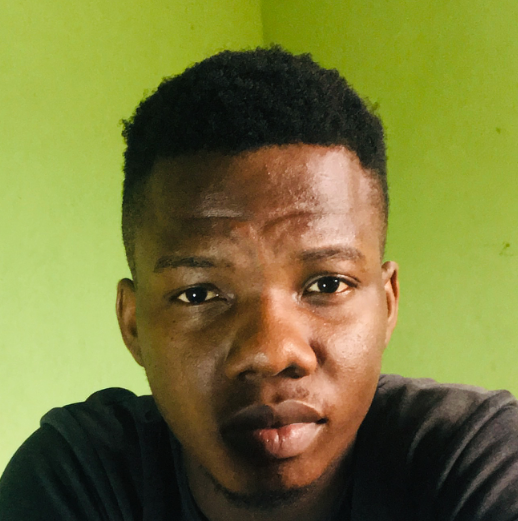
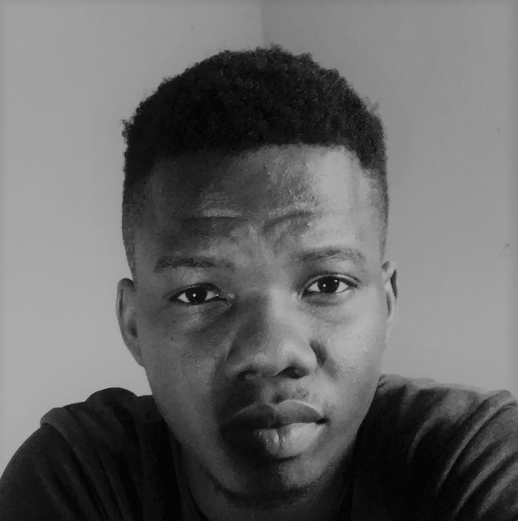
change bg to black and white

diff --git a/pages/about-salami-kolawole/index.vue b/pages/about-salami-kolawole/index.vue
@@ -1,0 +1,100 @@
+<template>
+    <div>
+        <div>
+<!--            <BreadCrumb/>-->
+            <div class="content-body">
+                <div v-html="rawHtml"></div>
+            </div>
+        </div>
+    </div>
+</template>
+
+<script setup>
+    import {ref} from 'vue';
+
+    const rawHtml = ref("<p>&nbsp;</p>\n" +
+        "\n" +
+        "<p>&nbsp;</p>\n" +
+        "\n" +
+        "<p>&nbsp;</p>\n" +
+        "\n" +
+        "<ul>\n" +
+        "\t<li><strong>WHO THE HELL ARE YOU?</strong><br />\n" +
+        "\t<br />\n" +
+        "\tWell since you asked. My name is Salami Kolawole, I am from Nigeria&nbsp;and I earn my daily bread through software development. Throughout my career, I have had the opportunity to work on various projects, ranging from open-source initiatives to enterprise solutions. As a leader, I have successfully guided teams of 5-10 members through one, two, three, four, five&nbsp;product launches, spanning various domains.<br />\n" +
+        "\t&nbsp;</li>\n" +
+        "\t<li><strong>HOW DID YOU BECOME A SOFTWARE ENGINEER?</strong><br />\n" +
+        "\t<br />\n" +
+        "\tIt all started in 2016, I was mandated to take a course in programming during my graduate program. While in the lecture room on a sunny Friday, the lecturer said 95% percent of you in this room will never end up as a programmer, just cram and pass the goddamn course. That statement really skyrocketed my interest in programming, I picked up my laptop days after, head to youtube, and search for FORTRAN FOR BEGINNERS. I never looked back afterward. A year later I picked up web development, so here I am.<br />\n" +
+        "\t&nbsp;</li>\n" +
+        "\t<li><strong>DO YOU HAVE A JOB AND WHAT DO YOU DO AT YOUR JOB?</strong><br />\n" +
+        "\tSure, I do have an employer, I work at VALE. You can check us out @ <a href=\"https://vale.ng\">https://vale.ng</a><br />\n" +
+        "\tI do wear many hats and they all fit. Most of the time you will find hacking away the backend side of things, I do dabble in front-end engineering too, but I do respect my boundaries. Catch me goofing around with DevOps-related tasks at odd hours too.<br />\n" +
+        "\tArchitectural design? Yeah, I am always discussing trade-offs.</li>\n" +
+        "</ul>\n" +
+        "\n" +
+        "<p>&nbsp;</p>\n" +
+        "\n" +
+        "<ul>\n" +
+        "\t<li><strong>WHAT DO YOU LOVE ABOUT BEING A SOFTWARE DEVELOPER?</strong><br />\n" +
+        "\t<br />\n" +
+        "\tNothing actually, it&#39;s just a profession where you are a beginner at something new every 3 months.</li>\n" +
+        "</ul>\n" +
+        "\n" +
+        "<p>&nbsp;</p>\n" +
+        "\n" +
+        "<ul>\n" +
+        "\t<li><strong>WHAT DO YOU REGARD AS&nbsp;AN IDEAL SOFTWARE?</strong><br />\n" +
+        "\t<br />\n" +
+        "\tA software that does not exist is my ideal software.&nbsp; Hello World application comes a distant second.<br />\n" +
+        "\t<br />\n" +
+        "\tErmm sorry, I have to&nbsp;go now, there&#39;s a crash in production. I need to start taking testing seriously.&nbsp;</li>\n" +
+        "</ul>");
+
+</script>
+
+<style scoped>
+
+    div.content-divider {
+        padding-bottom: 2rem;
+    }
+
+    div.content-tags {
+        display: flex;
+        justify-content: flex-start;
+        flex-wrap: wrap;
+        padding-bottom: 2rem;
+    }
+
+    div.content-tags h6 {
+        flex-basis: 100%;
+        font-weight: 600;
+    }
+
+    div.content-tags span {
+        margin-right: 10px;
+        font-size: 14px;
+    }
+
+
+    @media (min-width: 1025px) {
+
+        div.content-tags {
+            display: flex;
+            justify-content: flex-end;
+            flex-wrap: wrap;
+        }
+
+        div.content-tags h6 {
+            flex-basis: 100%;
+            text-align: end;
+        }
+
+        div.content-tags span {
+            margin-right: 0;
+            margin-left: 10px;
+        }
+
+    }
+
+</style>

diff --git a/pages/index.vue b/pages/index.vue
@@ -6,13 +6,14 @@
             <div class="flex-main-content">
                 <div class="flex-folder-parent">
                     <div class="flex-folder">
-                        <a href=""> <img src="~/assets/images/folder.png"/> Online Solution </a>
-                        <a href=""> <img src="~/assets/images/folder.png"/> Packages </a>
-                        <a href=""> <img src="~/assets/images/folder.png"/> Dev's Pers </a>
-                        <a href=""> <img src="~/assets/images/folder.png"/> Hot Takes </a>
-                        <a href=""> <img src="~/assets/images/folder.png"/> Projects </a>
-                        <a href=""> <img src="~/assets/images/folder.png"/> Concepts </a>
-                        <a href=""> <img src="~/assets/images/folder.png"/> Tutorials </a>
+                        <nuxt-link to="/"><img src="~/assets/images/grey-fold.png"/> Online Solution</nuxt-link>
+                        <nuxt-link to="/"><img src="~/assets/images/grey-fold.png"/> Packages</nuxt-link>
+                        <nuxt-link to="/"><img src="~/assets/images/grey-fold.png"/> Projects</nuxt-link>
+                        <nuxt-link to="/"><img src="~/assets/images/grey-fold.png"/> Concepts</nuxt-link>
+                        <nuxt-link to="/"><img src="~/assets/images/grey-fold.png"/> Tutorials</nuxt-link>
+                        <nuxt-link to="/about-salami-kolawole"><img class="img-file" src="~/assets/images/web-file.png"
+                                                                    alt="file"/> About.html
+                        </nuxt-link>
                     </div>
                 </div>
                 <div class="flex-about">
@@ -33,10 +34,11 @@
         list-style-image: url("~/assets/images/folder.png");
     }
 
-    div.flex-main-content{
+    div.flex-main-content {
         display: flex;
         justify-content: center
     }
+
     div.main-content {
         margin: 0 auto;
         width: 80%;
@@ -59,8 +61,8 @@
     }
 
     a > img {
-        width: 80px;
-        height: 80px;
+        width: 50px;
+        height: 50px;
     }
 
     .flex-folder {
@@ -94,19 +96,27 @@
         max-width: 200px;
     }
 
+    img.img-file {
+        width: 50px;
+        height: 50px;
+    }
+
     @media only screen and (max-width: 600px) {
 
-        div.flex-main-content{
+        div.flex-main-content {
             display: flex;
-            flex-direction:column;
+            flex-direction: column;
             gap: 10px;
         }
+
         p.about-note {
             max-width: 100%;
         }
-        img.profile-pic{
+
+        img.profile-pic {
             display: inline;
         }
+
         div.flex-folder > a {
             margin: 10px;
             flex-grow: 1;

diff --git a/layouts/default.vue b/layouts/default.vue
@@ -19,9 +19,6 @@
                         </div>
                         <div class="flex justify-around flex-wrapper">
                             <div class="flex-none toggle">
-                                    <input type="checkbox" id="toggle"  >
-                                    <label for="toggle"></label>
-                                    <span class="slider round"></span>
                                 <span> © 2022 WeekReed </span>
                             </div>
                             <div class="flex-initial flex-list">
@@ -76,6 +73,7 @@
         display: flex;
         flex-wrap: wrap;
         padding-bottom: 10px;
+        row-gap: 10px;
     }
 
     div.flex-initial-icon {
@@ -144,6 +142,8 @@
     @media only screen and (max-width: 600px) {
         div.flex-list {
             width: 100%;
+            text-align: center;
+            margin-bottom: 5px;
         }
     }
 
